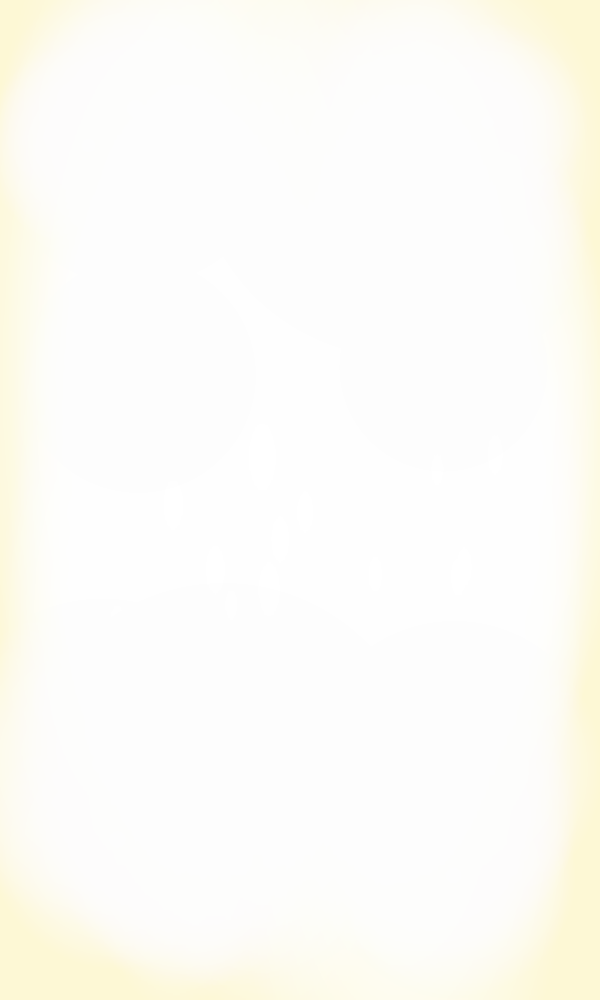
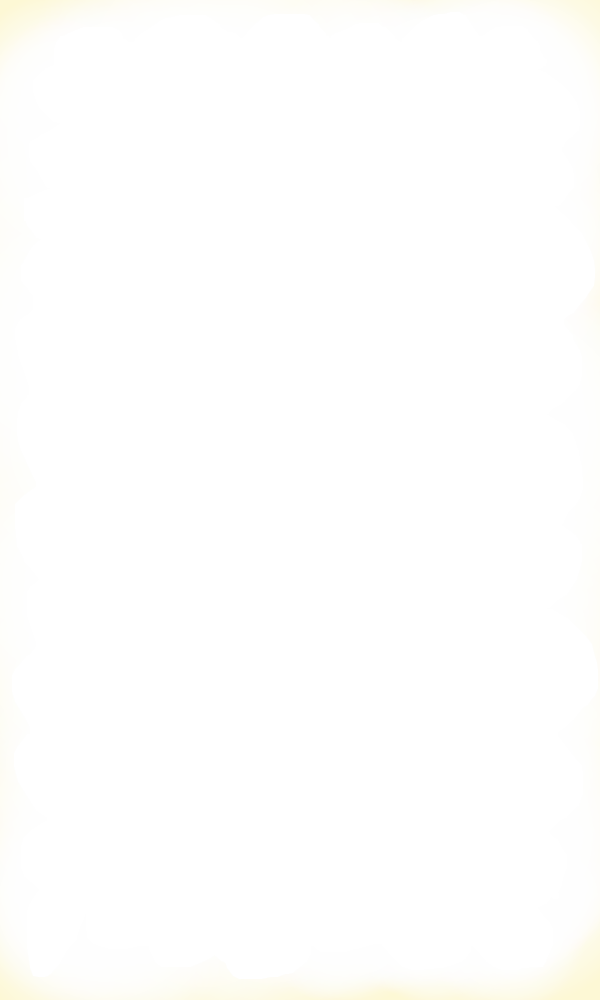
デザインの大幅変更

diff --git a/socialrecording/socialrecording/TokoShosaiViewController.m b/socialrecording/socialrecording/TokoShosaiViewController.m
@@ -40,7 +40,8 @@
 - (void)viewDidLoad
 {
     [super viewDidLoad];
-    self.table.backgroundColor = [UIColor colorWithPatternImage:[UIImage imageNamed:@"back_color.png"]];
+    //self.table.backgroundColor = [UIColor colorWithPatternImage:[UIImage imageNamed:@"back_color.png"]];
+    self.view.backgroundColor = [UIColor colorWithPatternImage:[UIImage imageNamed:@"back_color.png"]];
     
     
     //マイリストなどの情報はuser情報で得られる
@@ -119,6 +120,7 @@
     // Update Cell
     [self updateCell:cell atIndexPath:indexPath];
     
+    cell.backgroundColor = [UIColor clearColor];
     return cell;
 }
 -(void)tableView:(UITableView *)tableView didSelectRowAtIndexPath:(NSIndexPath *)indexPath{

diff --git a/socialrecording/socialrecording/SeiyuShosaiViewController.m b/socialrecording/socialrecording/SeiyuShosaiViewController.m
@@ -29,7 +29,7 @@
 - (void)viewDidLoad
 {
     [super viewDidLoad];
-    self.table.backgroundColor = [UIColor colorWithPatternImage:[UIImage imageNamed:@"back_color.png"]];
+    self.view.backgroundColor = [UIColor colorWithPatternImage:[UIImage imageNamed:@"back_color.png"]];
 }
 
 - (void)viewWillAppear:(BOOL)animated{
@@ -69,6 +69,7 @@
     // Update Cell
     [self updateCell:cell atIndexPath:indexPath];
     
+    cell.backgroundColor = [UIColor clearColor];
     return cell;
 }
 

diff --git a/socialrecording/socialrecording/RetrieveCookie.m b/socialrecording/socialrecording/RetrieveCookie.m
@@ -57,7 +57,7 @@
 
 -(NSString*)getUUID{
     NSUserDefaults *ud = [NSUserDefaults standardUserDefaults];
-    NSString *my_token = (NSString *)[ud objectForKey:@"my_token"];
+    NSString *my_token = @"test";(NSString *)[ud objectForKey:@"my_token"];
     if (my_token) {
         return my_token;
     }else{

diff --git a/socialrecording/socialrecording/SeiyuViewController.m b/socialrecording/socialrecording/SeiyuViewController.m
@@ -375,6 +375,7 @@
     // Update Cell
     [self updateCell:cell atIndexPath:indexPath];
     
+    cell.backgroundColor = [UIColor clearColor];
     return cell;
 }
 -(void)tableView:(UITableView *)tableView didSelectRowAtIndexPath:(NSIndexPath *)indexPath{
